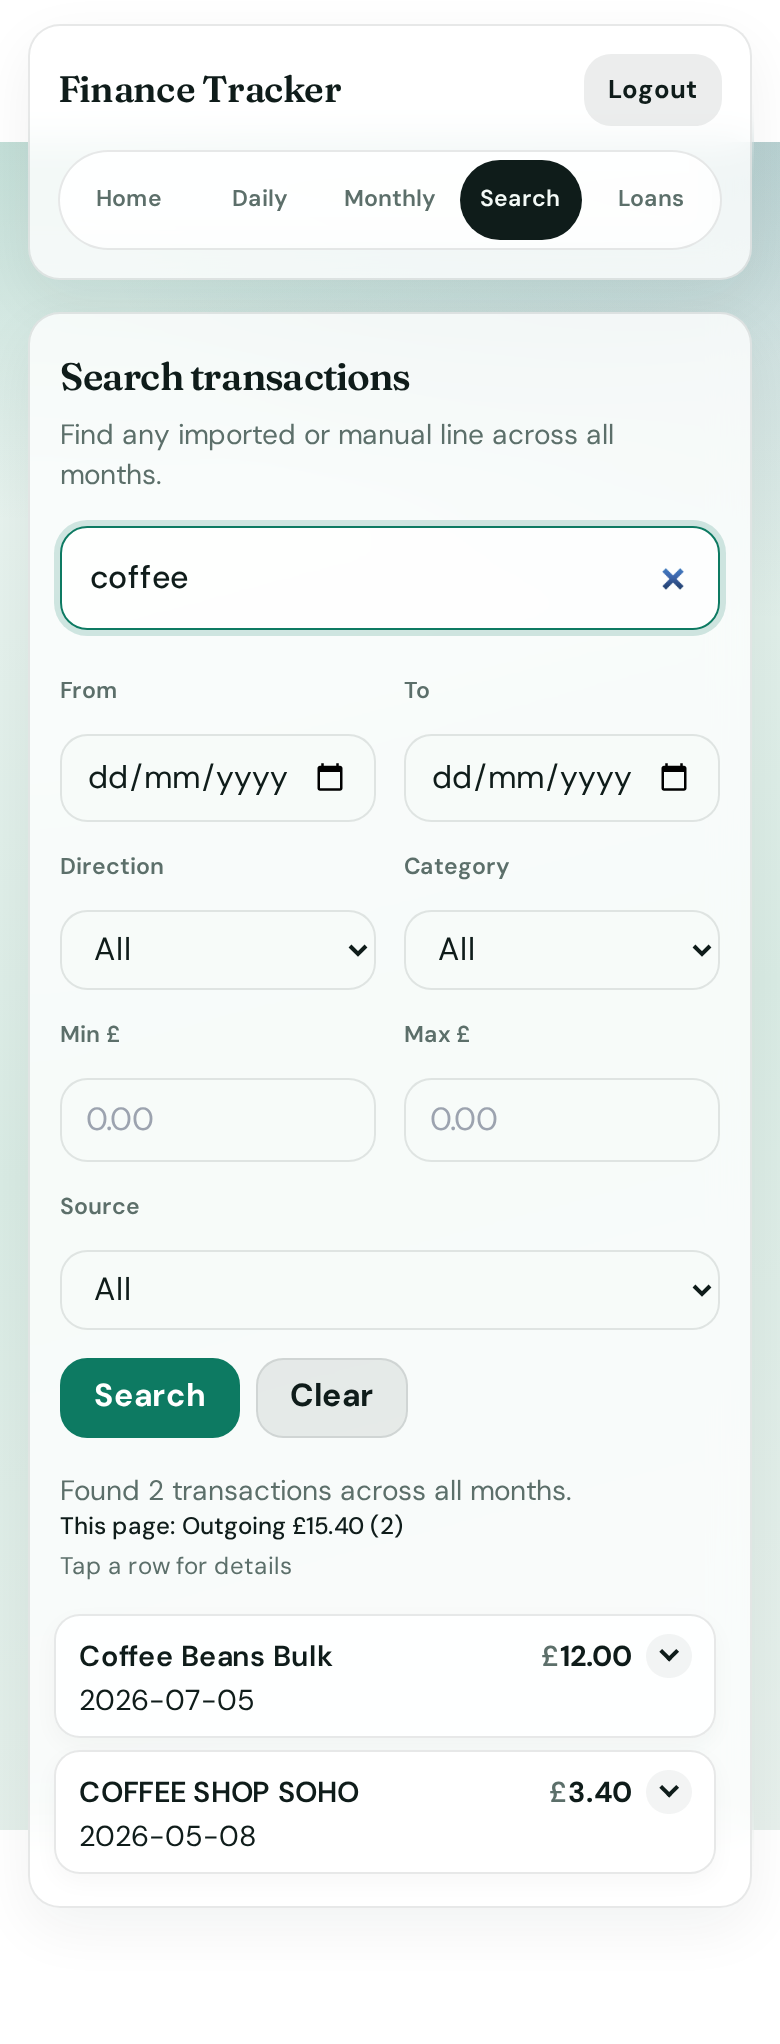
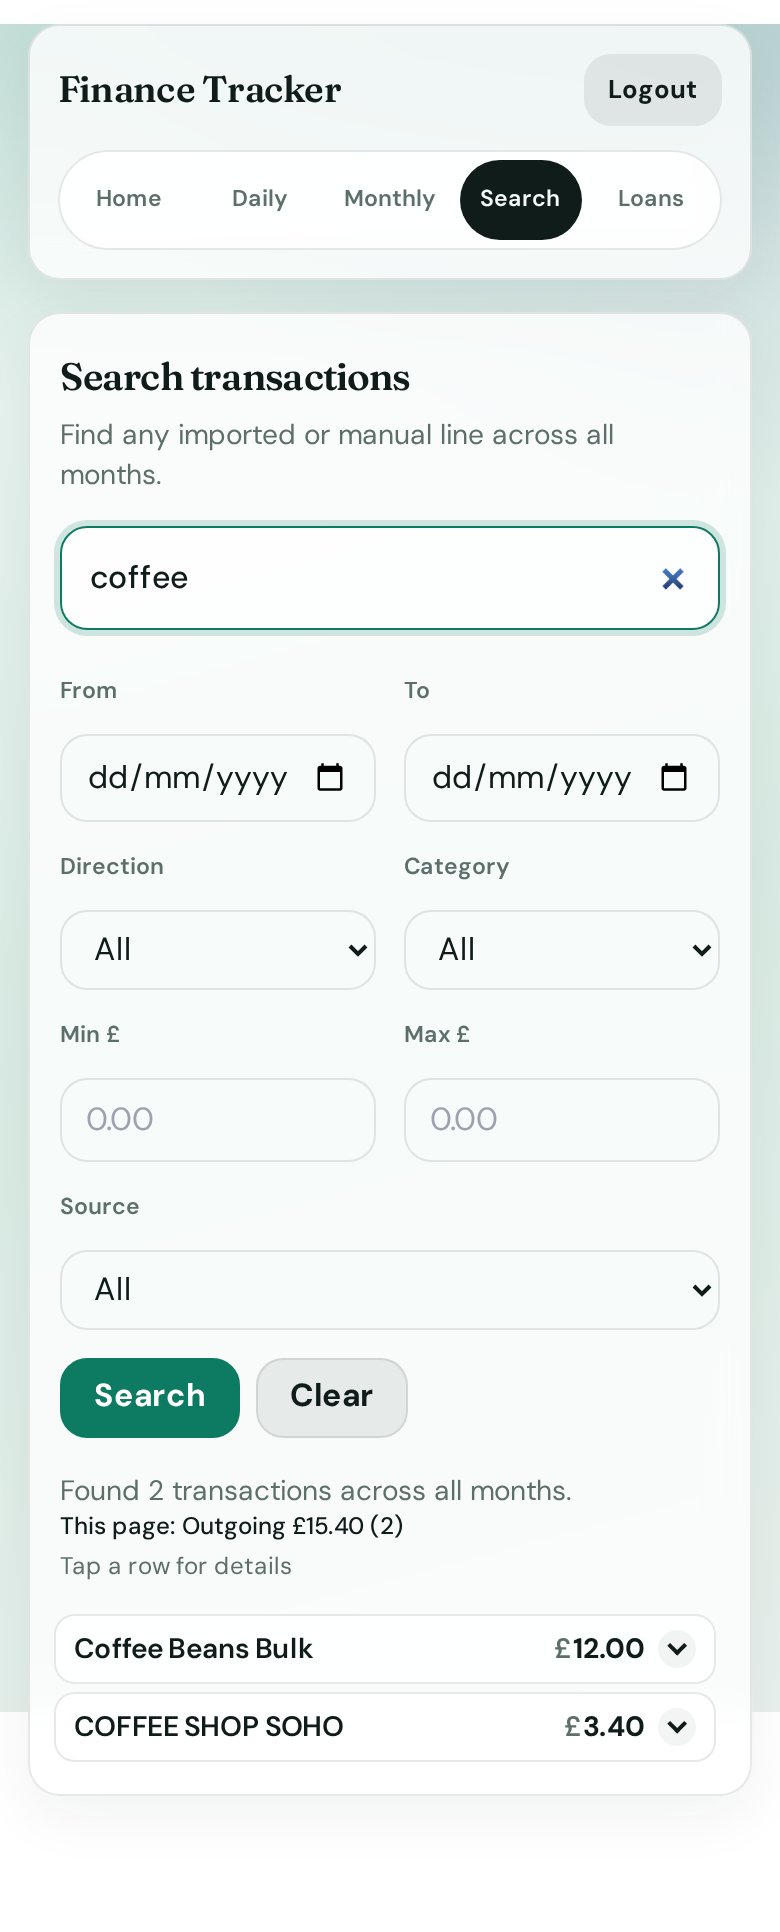
Make mobile Search collapsed rows single-line
Collapsed results show only description, amount, and chevron; date
moves into the expanded details so rows are clearly denser.

diff --git a/static/style.css b/static/style.css
@@ -4403,24 +4403,22 @@ body.search-page {
     body.search-page .search-tx-tbody {
         display: flex;
         flex-direction: column;
-        gap: 0.4rem;
+        gap: 0.28rem;
     }
 
     body.search-page .search-tx-tbody tr.search-tx-row {
         display: grid;
         grid-template-columns: minmax(0, 1fr) auto auto;
-        grid-template-areas:
-            "desc amount toggle"
-            "date date date";
-        column-gap: 0.45rem;
-        row-gap: 0.1rem;
+        grid-template-areas: "desc amount toggle";
+        column-gap: 0.4rem;
+        row-gap: 0;
         align-items: center;
         margin: 0;
-        padding: 0.55rem 0.7rem;
+        padding: 0.42rem 0.55rem;
         border: 1px solid var(--line) !important;
-        border-radius: 0.8rem;
+        border-radius: 0.65rem;
         background: rgba(255, 255, 255, 0.84);
-        box-shadow: 0 4px 12px rgba(15, 40, 34, 0.035);
+        box-shadow: none;
         cursor: pointer;
         -webkit-tap-highlight-color: transparent;
         transition: background 0.15s ease, box-shadow 0.15s ease;
@@ -4449,9 +4447,9 @@ body.search-page {
             "cat cat cat"
             "source source source"
             "month month month";
-        row-gap: 0.35rem;
-        padding: 0.65rem 0.75rem 0.8rem;
-        box-shadow: 0 10px 24px rgba(15, 40, 34, 0.07);
+        row-gap: 0.28rem;
+        padding: 0.5rem 0.6rem 0.65rem;
+        box-shadow: 0 6px 16px rgba(15, 40, 34, 0.05);
     }
 
     body.search-page .search-tx-tbody td {
@@ -4459,26 +4457,29 @@ body.search-page {
         padding: 0;
         min-width: 0;
         white-space: normal;
-        font-size: 0.9rem;
-        line-height: 1.25;
+        font-size: 0.88rem;
+        line-height: 1.2;
         color: var(--ink);
     }
 
     body.search-page .search-tx-desc {
         grid-area: desc;
-        font-size: 0.95rem;
+        font-size: 0.9rem;
         font-weight: 600;
         letter-spacing: -0.01em;
         word-break: break-word;
         padding-right: 0.15rem;
         line-height: 1.25;
+        white-space: nowrap;
+        overflow: hidden;
+        text-overflow: ellipsis;
     }
 
     body.search-page .search-tx-amount {
         grid-area: amount;
         justify-self: end;
         text-align: right;
-        font-size: 0.98rem;
+        font-size: 0.9rem;
         font-weight: 700;
         font-variant-numeric: tabular-nums;
         white-space: nowrap;
@@ -4492,12 +4493,37 @@ body.search-page {
         color: var(--muted);
     }
 
+    /* Date is a detail field on mobile until the row is expanded. */
     body.search-page .search-tx-date {
+        display: none;
         grid-area: date;
         color: var(--muted);
-        font-size: 0.75rem;
+        font-size: 0.72rem;
         font-variant-numeric: tabular-nums;
-        line-height: 1.2;
+        line-height: 1.15;
+    }
+
+    body.search-page .search-tx-row--open .search-tx-date {
+        display: flex;
+        align-items: baseline;
+        justify-content: space-between;
+        gap: 0.75rem;
+        width: 100%;
+        margin-top: 0.15rem;
+        padding-top: 0.4rem;
+        border-top: 1px solid rgba(15, 40, 34, 0.08);
+        font-size: 0.88rem;
+        color: var(--ink);
+    }
+
+    body.search-page .search-tx-row--open .search-tx-date::before {
+        content: attr(data-label);
+        flex: 0 0 auto;
+        color: var(--muted);
+        font-size: 0.68rem;
+        font-weight: 600;
+        letter-spacing: 0.03em;
+        text-transform: uppercase;
     }
 
     body.search-page .search-tx-toggle {
@@ -4505,8 +4531,8 @@ body.search-page {
         grid-area: toggle;
         align-items: center;
         justify-content: center;
-        width: 1.4rem;
-        height: 1.4rem;
+        width: 1.2rem;
+        height: 1.2rem;
         border-radius: 999px;
         background: rgba(15, 40, 34, 0.05);
         color: var(--muted);
@@ -4547,26 +4573,28 @@ body.search-page {
     body.search-page .search-tx-row--open .search-tx-dir {
         grid-area: dir;
         text-transform: capitalize;
-        margin-top: 0.2rem;
+        margin-top: 0;
+        border-top: 0;
+        padding-top: 0.22rem;
     }
 
     body.search-page .search-tx-row--open .search-tx-cat {
         grid-area: cat;
         text-transform: capitalize;
         border-top: 0;
-        padding-top: 0.25rem;
+        padding-top: 0.22rem;
     }
 
     body.search-page .search-tx-row--open .search-tx-source {
         grid-area: source;
         border-top: 0;
-        padding-top: 0.25rem;
+        padding-top: 0.22rem;
     }
 
     body.search-page .search-tx-row--open .search-tx-month {
         grid-area: month;
         border-top: 0;
-        padding-top: 0.25rem;
+        padding-top: 0.22rem;
     }
 
     body.search-page .search-tx-row--open .search-tx-detail::before {
